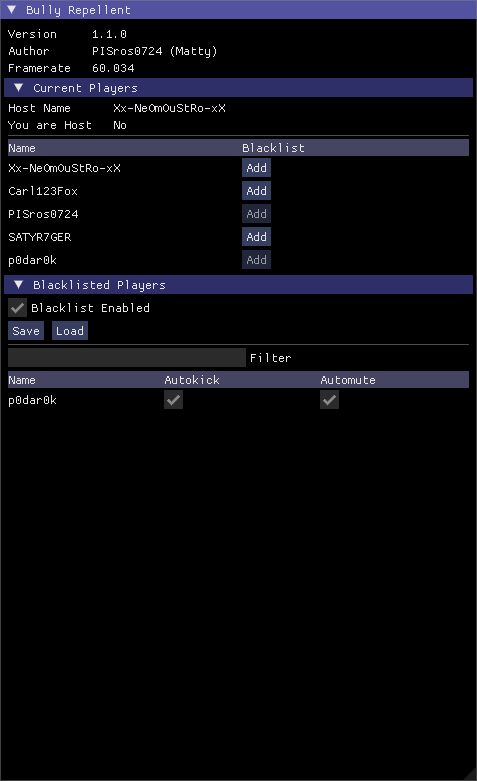
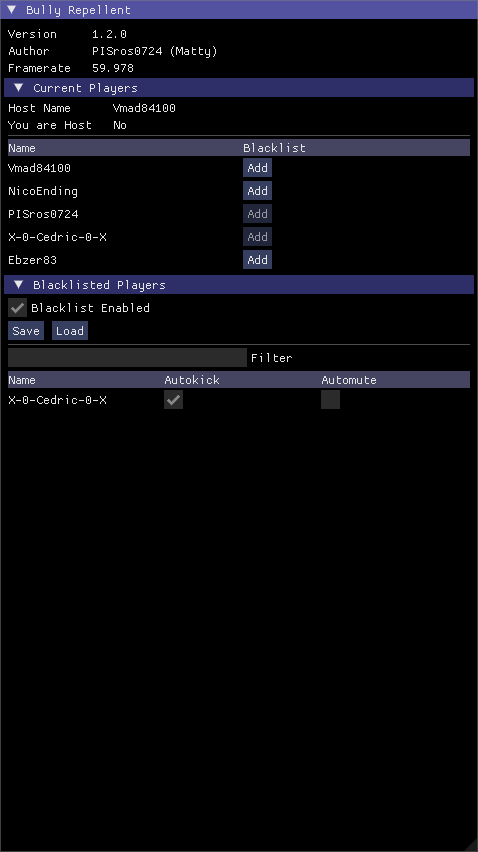
Updated menu images.

Changed region(s): [[0.0, 0.0, 0.9979, 0.5224]]

diff --git a/js/mods.js b/js/mods.js
@@ -76,7 +76,11 @@ export default [
             {
                 name: 'hud.png',
                 description: "Dashboard HUD."
-            }
+            },
+            {
+                name: 'menu.png',
+                description: "Menu with options for the mod.",
+            },
         ],
     },
 ];
